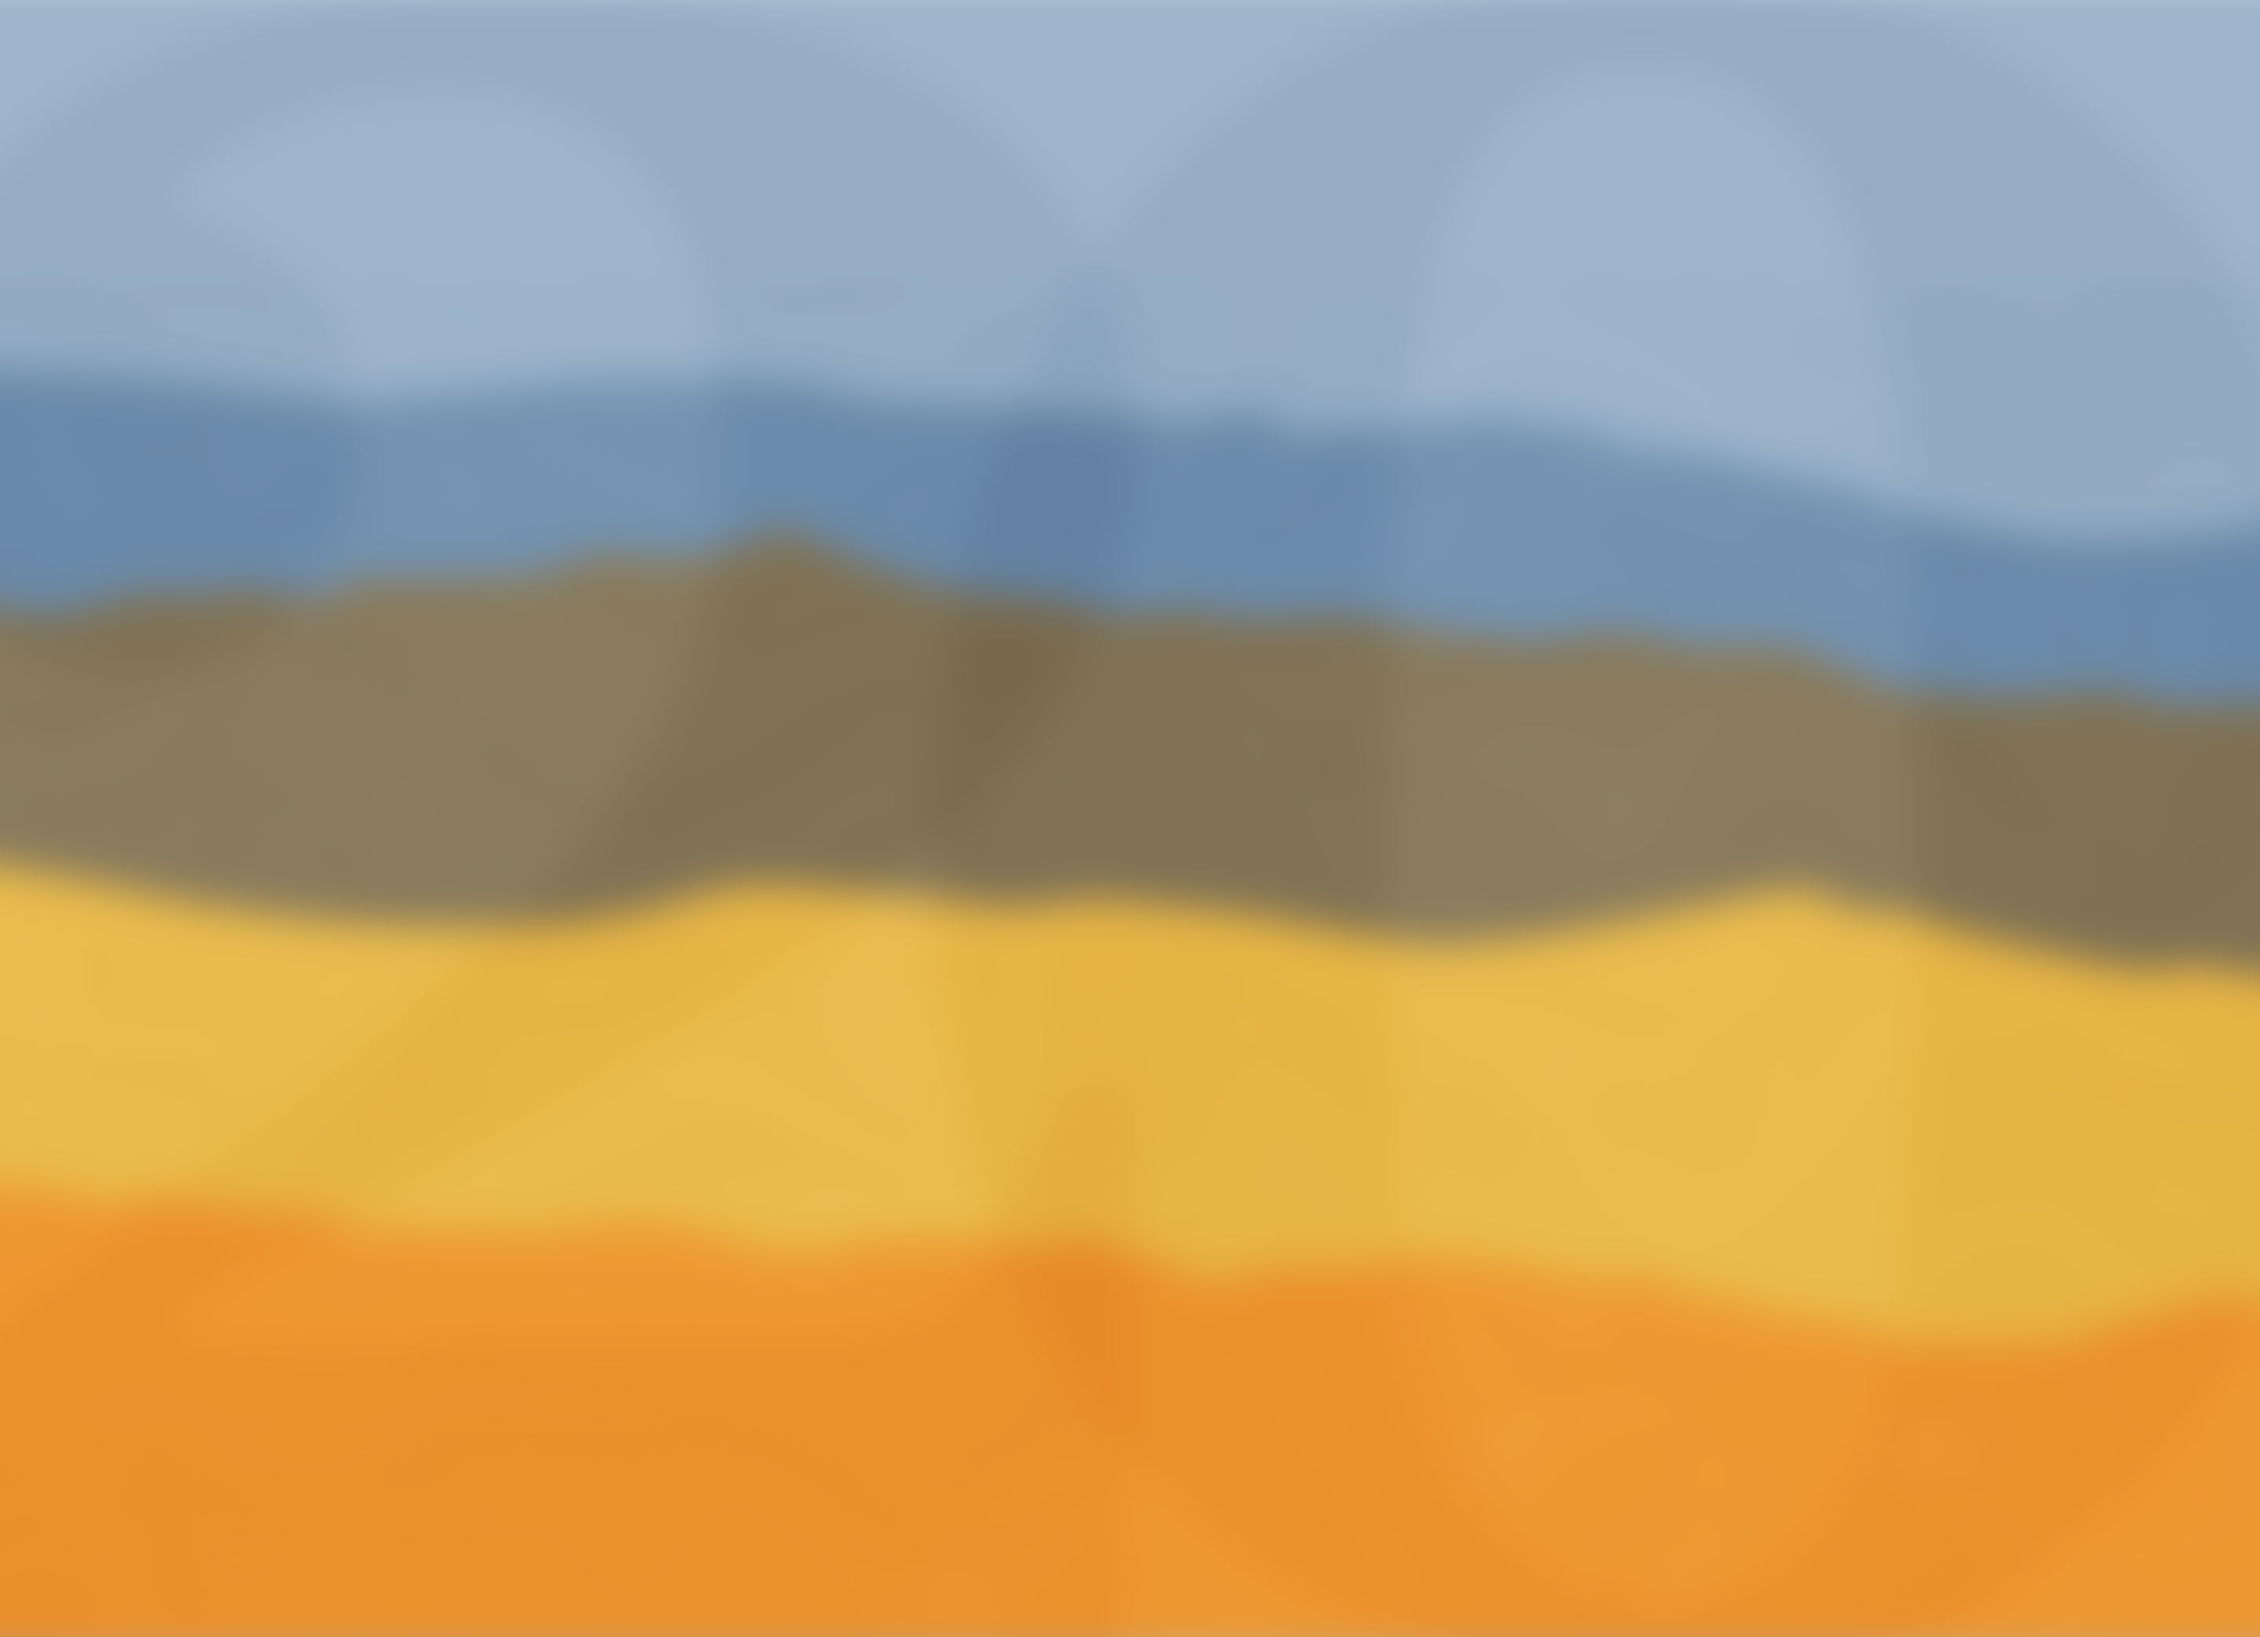
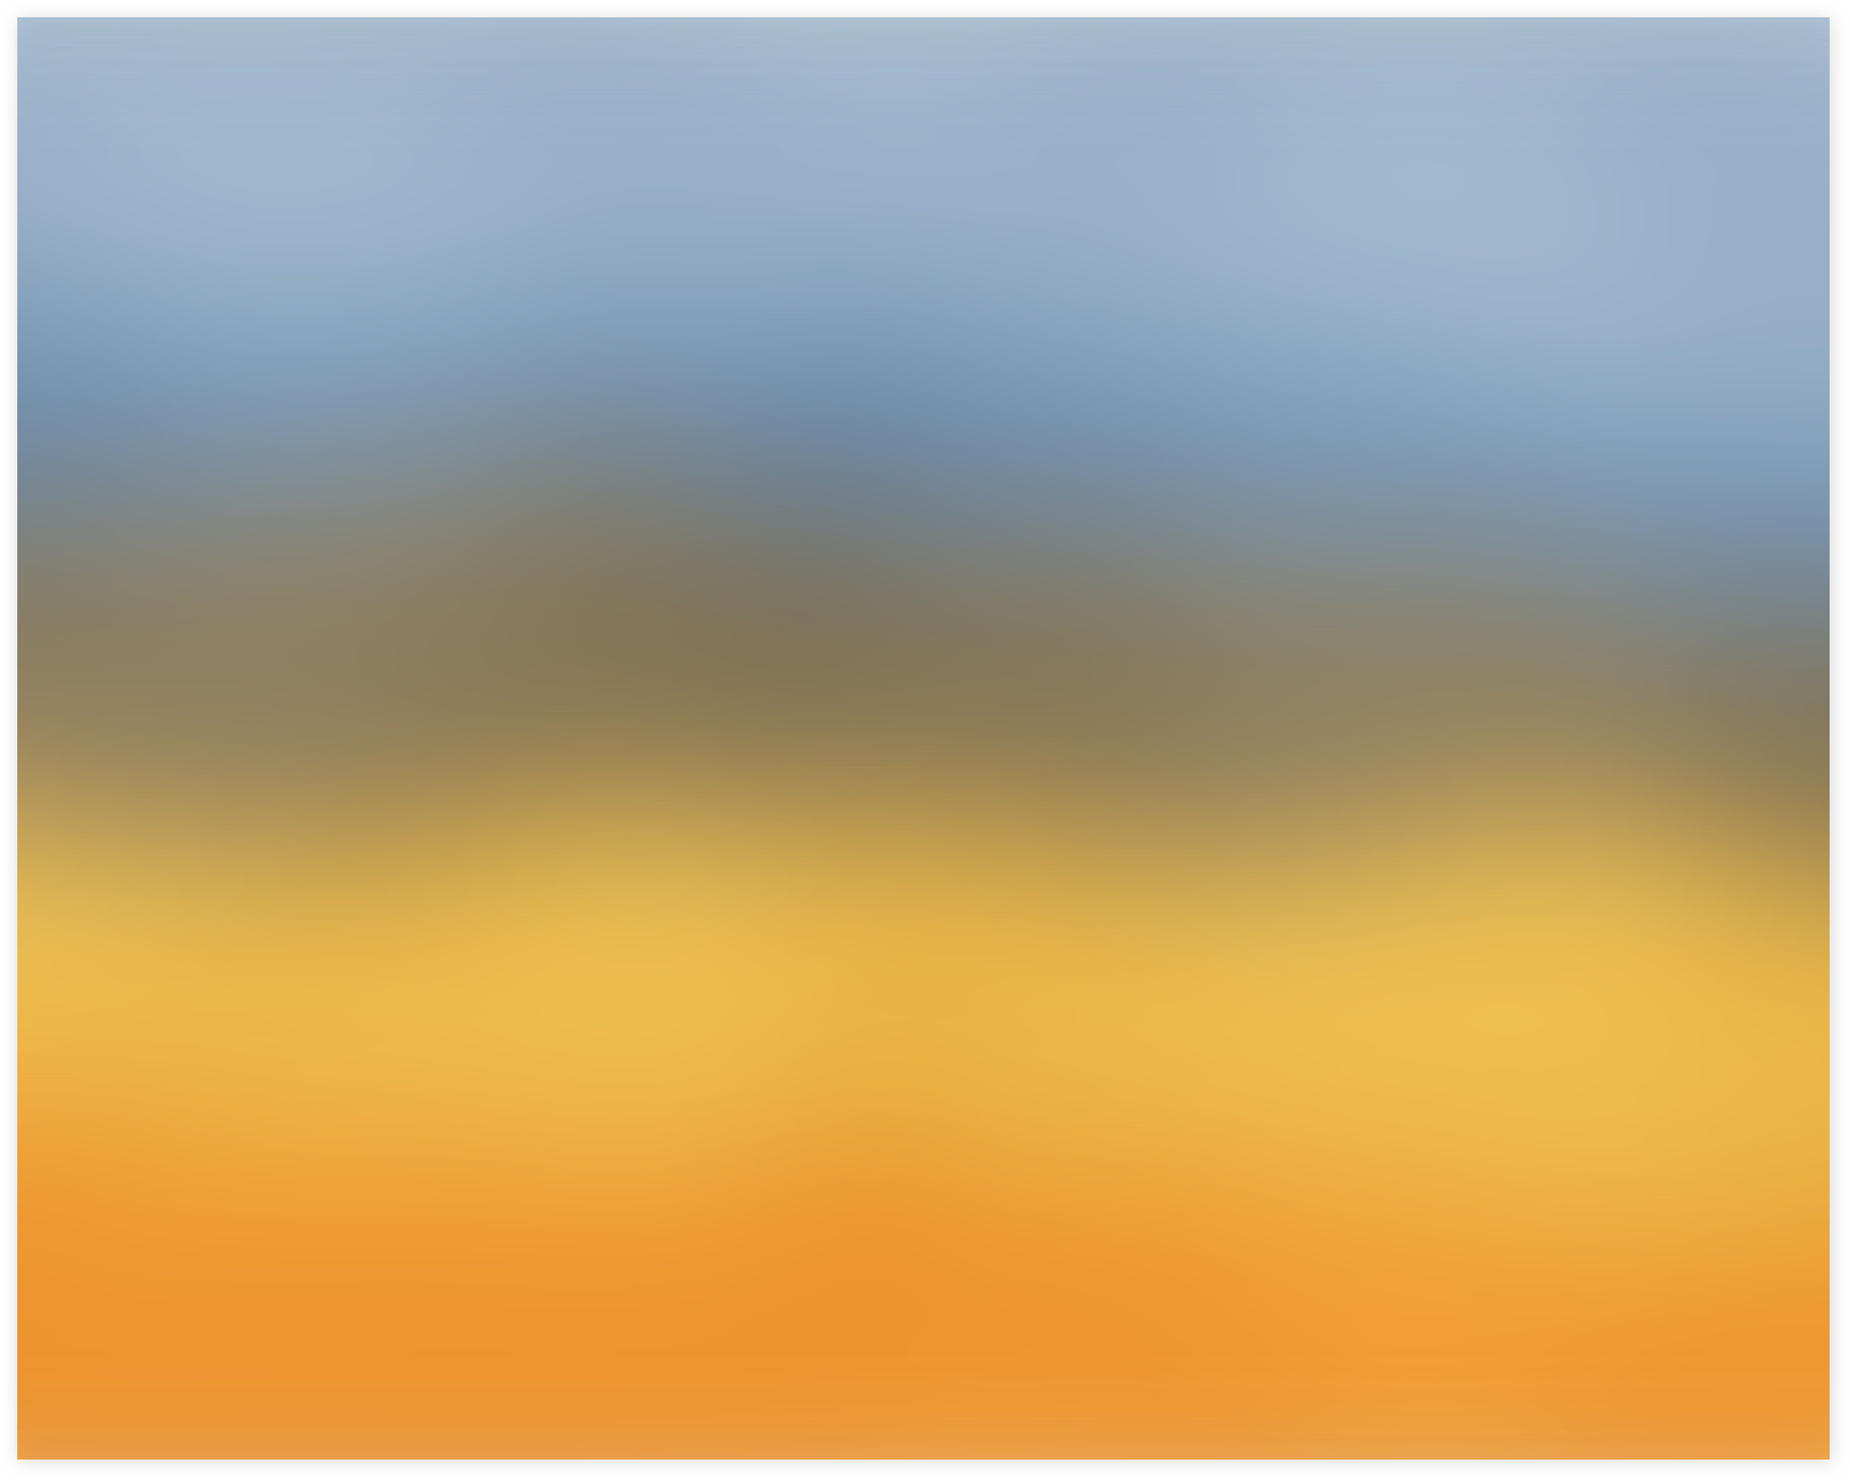
blur update

Changed region(s): [[0.0, 0.0, 1.0, 1.0]]

diff --git a/src/app/wall/wall.component.less b/src/app/wall/wall.component.less
@@ -10,6 +10,7 @@
         background-image: url(/assets/blurred-background.jpg);
         background-size: 100vw;
         background-position-y: -@top-offset;
+        background-position-x: center;
         position: absolute;
         top: 0;
         right: 0;

diff --git a/src/app/vision-statement/vision-statement.component.less b/src/app/vision-statement/vision-statement.component.less
@@ -10,6 +10,7 @@
         background-image: url(/assets/blurred-background.jpg);
         background-size: 100vw;
         background-position-y: -885px;
+        background-position-x: center;
         position: absolute;
         top: 0;
         right: 0;
